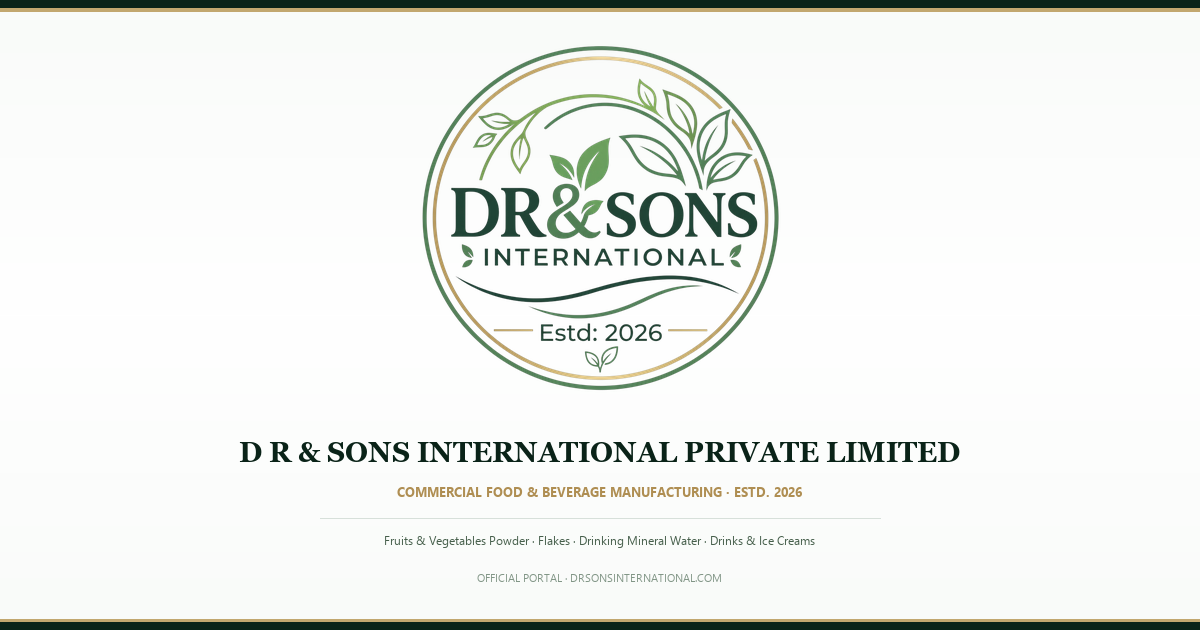
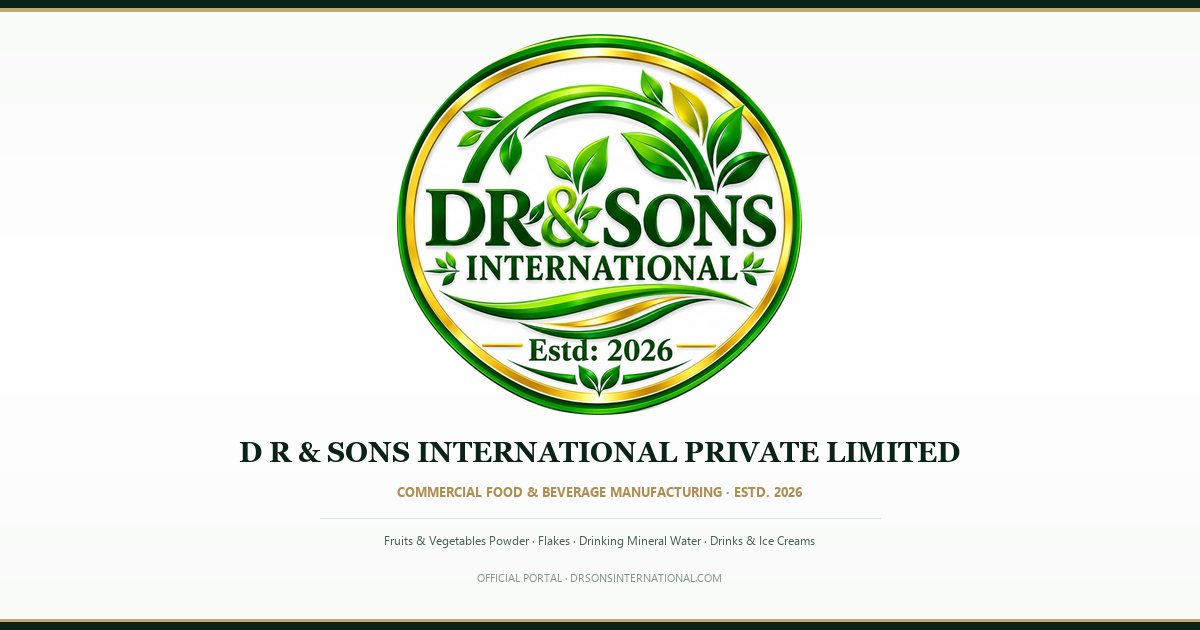
feat: upgrade brand identity to 3D metallic embossed emblem seal and deploy new social preview card (v4)

Changed region(s): [[0.3083, 0.0302, 0.6783, 0.6635]]

diff --git a/index.html b/index.html
@@ -13,29 +13,29 @@
     <meta property="og:site_name" content="D R &amp; Sons International Private Limited" />
     <meta property="og:title" content="D R &amp; Sons International Private Limited" />
     <meta property="og:description" content="Commercial Food &amp; Beverage Manufacturing · Since 2026 · Fruits, Vegetables Powder and starch · Flakes · Drinking Mineral Water · Drinks &amp; Ice Creams" />
-    <meta property="og:image" content="https://drsonsinternational.com/og-image.jpg?v=3" />
-    <meta property="og:image:secure_url" content="https://drsonsinternational.com/og-image.jpg?v=3" />
+    <meta property="og:image" content="https://drsonsinternational.com/og-image.jpg?v=4" />
+    <meta property="og:image:secure_url" content="https://drsonsinternational.com/og-image.jpg?v=4" />
     <meta property="og:image:type" content="image/jpeg" />
     <meta property="og:image:width" content="1200" />
     <meta property="og:image:height" content="630" />
-    <meta property="og:image:alt" content="D R &amp; Sons International Official Emblem Seal" />
+    <meta property="og:image:alt" content="D R &amp; Sons International Official 3D Metallic Emblem Seal" />
 
     <!-- Fallback image tags for WhatsApp / iMessage / Google scrapers -->
-    <link rel="image_src" href="https://drsonsinternational.com/og-image.jpg?v=3" />
-    <meta itemprop="image" content="https://drsonsinternational.com/og-image.jpg?v=3" />
+    <link rel="image_src" href="https://drsonsinternational.com/og-image.jpg?v=4" />
+    <meta itemprop="image" content="https://drsonsinternational.com/og-image.jpg?v=4" />
 
     <!-- Twitter / X Card -->
     <meta name="twitter:card" content="summary_large_image" />
     <meta name="twitter:url" content="https://drsonsinternational.com/" />
     <meta name="twitter:title" content="D R &amp; Sons International Private Limited" />
     <meta name="twitter:description" content="Commercial Food &amp; Beverage Manufacturing · Since 2026 · Fruits, Vegetables Powder and starch · Flakes · Drinking Mineral Water · Drinks &amp; Ice Creams" />
-    <meta name="twitter:image" content="https://drsonsinternational.com/og-image.jpg?v=3" />
-    <meta name="twitter:image:alt" content="D R &amp; Sons International Official Emblem Seal" />
+    <meta name="twitter:image" content="https://drsonsinternational.com/og-image.jpg?v=4" />
+    <meta name="twitter:image:alt" content="D R &amp; Sons International Official 3D Metallic Emblem Seal" />
 
     <!-- Icons & Favicons -->
-    <link rel="icon" type="image/png" sizes="64x64" href="/favicon.png?v=3" />
-    <link rel="apple-touch-icon" sizes="180x180" href="/apple-touch-icon.png?v=3" />
-    <link rel="shortcut icon" href="/favicon.ico?v=3" />
+    <link rel="icon" type="image/png" sizes="64x64" href="/favicon.png?v=4" />
+    <link rel="apple-touch-icon" sizes="180x180" href="/apple-touch-icon.png?v=4" />
+    <link rel="shortcut icon" href="/favicon.ico?v=4" />
     
     <!-- Preconnect Fonts -->
     <link rel="preconnect" href="https://fonts.googleapis.com">
